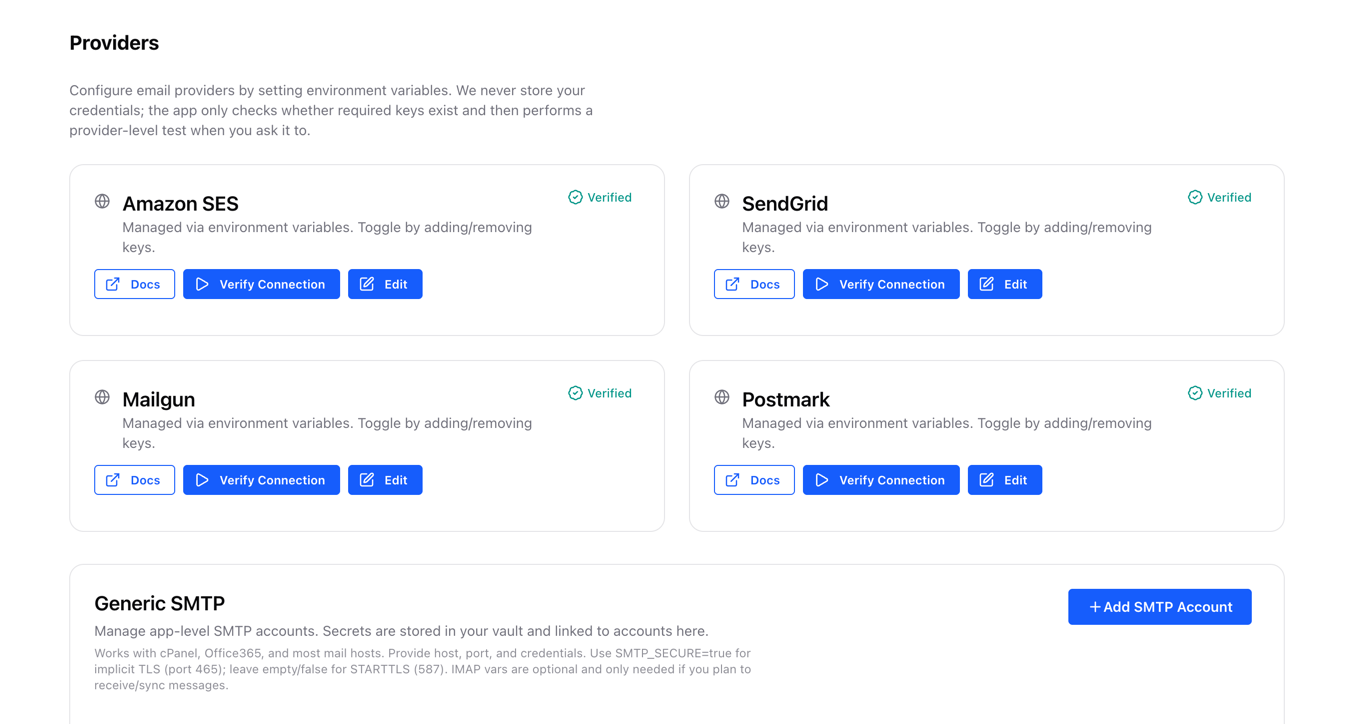
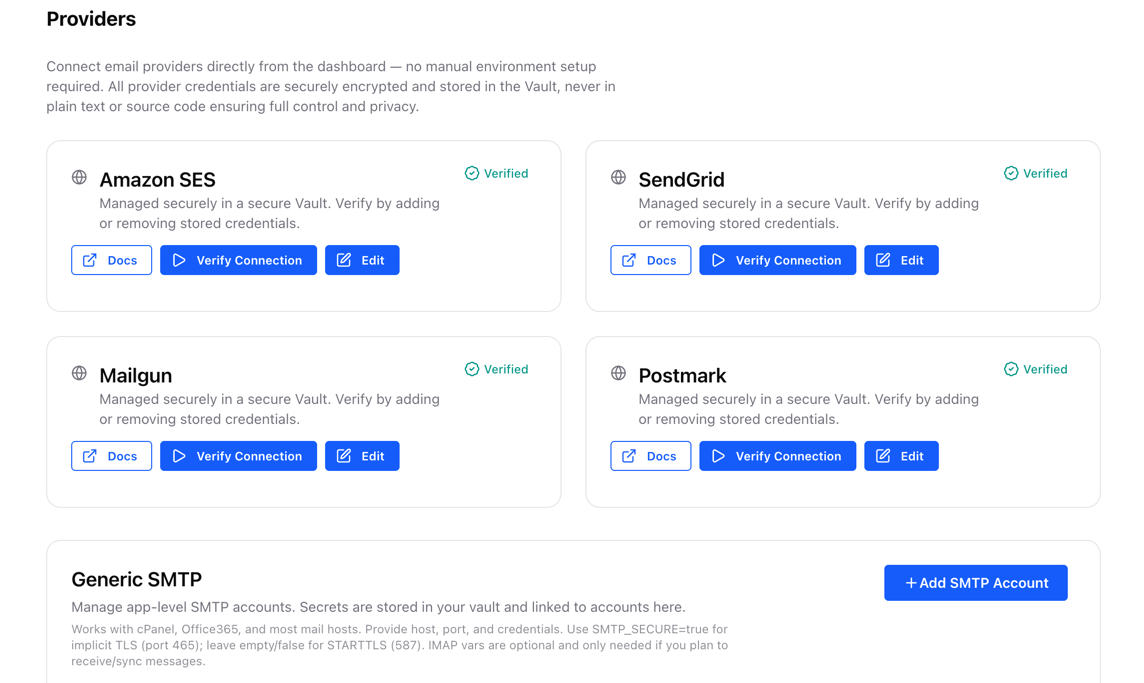
docs(changeset): Updated readme and images (#179)

diff --git a/apps/web/app/dashboard/(shell)/providers/page.tsx b/apps/web/app/dashboard/(shell)/providers/page.tsx
@@ -22,9 +22,8 @@ export default async function ProvidersPage() {
 			</div>
 
 			<p className="max-w-prose text-sm text-muted-foreground my-6">
-				Configure email providers by setting environment variables. We never
-				store your credentials; the app only checks whether required keys exist
-				and then performs a provider-level test when you ask it to.
+                Connect email providers directly from the dashboard — no manual environment setup required.
+                All provider credentials are securely encrypted and stored in the Vault, never in plain text or source code ensuring full control and privacy.
 			</p>
 
 			<div className="grid gap-6 lg:grid-cols-2">

diff --git a/apps/web/components/dashboard/providers/provider-card.tsx b/apps/web/components/dashboard/providers/provider-card.tsx
@@ -163,10 +163,8 @@ export default function ProviderCard({
 								<CardTitle className="text-lg sm:text-xl">
 									{spec.name}
 								</CardTitle>
-								{/*<small>{userProvider?.providers.id}</small>*/}
 								<p className="text-sm text-muted-foreground">
-									Managed via environment variables. Toggle by adding/removing
-									keys.
+                                    Managed securely in a secure Vault. Verify by adding or removing stored credentials.
 								</p>
 							</div>
 						</div>

diff --git a/apps/docs/app/(home)/page.tsx b/apps/docs/app/(home)/page.tsx
@@ -37,6 +37,12 @@ export default function HomePage() {
 				</Button>
 			</div>
 
+            <div className={"flex justify-center -mt-10"}>
+                <Button variant={"link"} className={"underline"} asChild={true} size={"sm"}>
+                    <Link href={"https://buy.stripe.com/dRmfZje75d4OaGG8ux3Nm00"}>💙 Support Kurrier</Link>
+                </Button>
+            </div>
+
 			<FeatureExample />
 		</>
 	);

diff --git a/README.md b/README.md
@@ -24,3 +24,34 @@ Ready to try it out? Follow the next sections to get your instance running:
 
 
 ### → [Read the docs](https://www.kurrier.org)
+
+## Screenshots
+
+Here’s a look at Kurrier in action — a clean, modern webmail built to connect all your email providers in one place.
+
+
+### 🔌 Providers View
+Connect and manage IMAP, SMTP, SES, SendGrid, Mailgun, and more — all from one dashboard.
+
+![Kurrier Providers View](https://www.kurrier.org/_next/image?url=%2F_next%2Fstatic%2Fmedia%2Fdoc-providers.21c34a8a.png&w=1920&q=100)
+
+
+### 👤 Identity View
+Easily switch between multiple sender identities and manage your connected accounts.
+
+![Kurrier Identity View](https://www.kurrier.org/_next/image?url=%2F_next%2Fstatic%2Fmedia%2Fdoc-identities.ea020d9f.png&w=1920&q=100)
+
+### 📨 Webmail View
+A fast, minimal interface for reading and managing your emails across accounts.
+
+![Kurrier Webmail View](https://www.kurrier.org/light-mailbox.png)
+
+## 💙 Support Kurrier
+
+Kurrier is an independent, open-source project built to make modern email infrastructure private, reliable, and self-hosted.  
+If you find it useful, consider supporting its development — your contributions help cover hosting costs, maintenance, and future improvements.
+
+👉 [**Donate or Support Kurrier**](https://buy.stripe.com/dRmfZje75d4OaGG8ux3Nm00)
+
+Every bit of support helps keep Kurrier sustainable and open for everyone.  
+Thank you for helping make privacy-friendly email more accessible.

diff --git a/.changeset/tiny-donuts-wear.md b/.changeset/tiny-donuts-wear.md
@@ -1,0 +1,7 @@
+---
+"@kurrier/docs": patch
+"@kurrier/web": patch
+"@kurrier/repo": patch
+---
+
+Updated readme and images
